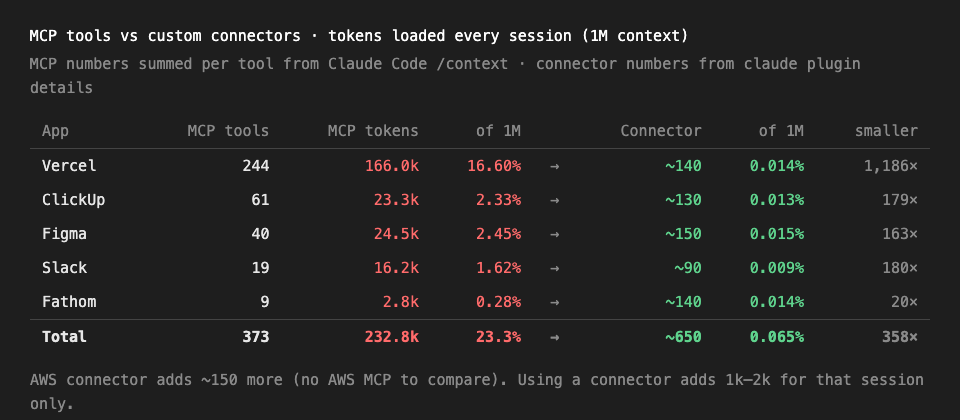
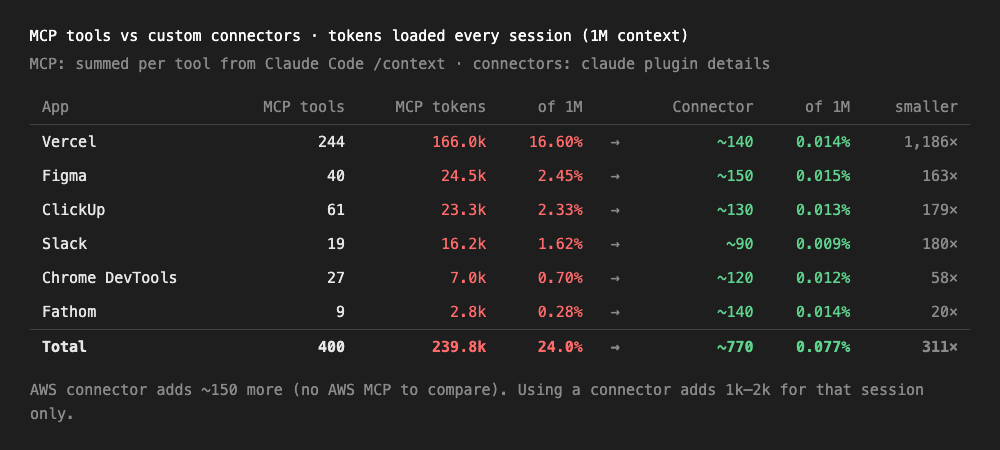
README + screenshots: add Chrome DevTools (7 connectors, 24.0% to 0.077%)

diff --git a/README.md b/README.md
@@ -1,7 +1,7 @@
 # Custom connectors for Claude Code
 
-Six Claude Code skills that replace the **Slack, Fathom, ClickUp, Vercel and AWS** MCPs, and the
-reading side of the **Figma** MCP. Claude calls each app's API directly with `curl` (or the `aws`
+Seven Claude Code skills that replace the **Slack, Fathom, ClickUp, Vercel, AWS and Chrome DevTools**
+MCPs, and the reading side of the **Figma** MCP. Claude calls each app's API directly with `curl` (or the `aws`
 CLI), using your own login saved in your Mac's Keychain.
 
 ## Install (2 commands, inside Claude Code)
@@ -16,7 +16,7 @@ instructions Claude reads when you ask for that app. The files live in
 `~/.claude/plugins/` on your Mac, not in any of your project repos.
 
 **Then turn off the MCPs these replace**, otherwise they keep loading their tools every session.
-Type `/mcp`, pick each of Slack, Fathom, ClickUp, Vercel and AWS, and disable it. Connectors added
+Type `/mcp`, pick each of Slack, Fathom, ClickUp, Vercel, AWS and chrome-devtools, and disable it. Connectors added
 through claude.ai are under claude.ai, Settings, Connectors. **Keep the Figma MCP** if you edit
 designs or use design-to-code; the Figma connector only reads.
 
@@ -28,7 +28,7 @@ If you keep any of these MCPs switched on, Claude might occasionally use an MCP 
 connector. To rule that out, add this line to your global `~/.claude/CLAUDE.md`:
 
 ```
-For Slack, Fathom, ClickUp, Vercel and AWS, use the custom-connectors skills instead of the MCPs.
+For Slack, Fathom, ClickUp, Vercel, AWS and Chrome DevTools, use the custom-connectors skills instead of the MCPs.
 For Figma, use figma-connector for reading, and the Figma MCP only for editing or design-to-code.
 ```
 
@@ -43,6 +43,7 @@ You don't need this if you've disabled the MCPs with `/mcp`.
 | **clickup-connector** | Create, update, search and delete tasks, comments, tags, checklists, attachments, custom fields, subtasks and time entries |
 | **vercel-connector** | Deploy, redeploy, check status, read build and live runtime logs, manage env vars, promote or roll back, list domains. No Vercel CLI needed |
 | **aws-connector** | SSO login, SSM tunnels to private databases, Run Command, Parameter Store, logs and Logs Insights, ECS, RDS, Secrets Manager, S3, CloudFront, Lambda, costs, and anything else the aws CLI can do |
+| **chrome-devtools-connector** | Drive Chrome: open pages, click, fill forms, type, upload files, screenshots, snapshots, console and network logs, run JS, emulate devices, Lighthouse. Same official chrome-devtools-mcp under the hood, started on first use; no token |
 | **figma-connector** | Read pages, frames and node details, render frames to PNG/SVG, version history, read and post comments. **Read-only** |
 
 ## Why this beats the MCPs
@@ -51,26 +52,27 @@ You don't need this if you've disabled the MCPs with `/mcp`.
 loads one line until you ask for that app.
 
 <table>
-<tr><th>Before: 5 MCPs, ~232.8k tokens (23.3%)</th><th>After: 6 connectors, ~800 tokens (0.08%)</th></tr>
+<tr><th>Before: 6 MCPs, ~239.8k tokens (24.0%)</th><th>After: 7 connectors, ~915 tokens (0.09%)</th></tr>
 <tr><td><img src="docs/before-mcps.png" alt="Before: MCP tool tokens per server in /context"></td>
 <td><img src="docs/after-connectors.png" alt="After: connector skill tokens in /context"></td></tr>
 </table>
 
-![MCP tools vs custom connectors: 232.8k tokens (23.3%) down to ~650 (0.065%)](docs/mcp-vs-connectors.png)
+![MCP tools vs custom connectors: 239.8k tokens (24.0%) down to ~770 (0.077%)](docs/mcp-vs-connectors.png)
 
 | App | MCP tools | **Before**: MCP tokens | of 1M | **After**: connector tokens | of 1M |
 |---|---|---|---|---|---|
 | Vercel | 244 | 166.0k | **16.6%** | ~140 | **0.014%** |
-| ClickUp | 61 | 23.3k | **2.3%** | ~130 | **0.013%** |
 | Figma | 40 | 24.5k | **2.5%** | ~150 | **0.015%** |
+| ClickUp | 61 | 23.3k | **2.3%** | ~130 | **0.013%** |
 | Slack | 19 | 16.2k | **1.6%** | ~90 | **0.009%** |
+| Chrome DevTools | 27 | 7.0k | **0.7%** | ~120 | **0.012%** |
 | Fathom | 9 | 2.8k | **0.3%** | ~140 | **0.014%** |
-| **Total** | **373** | **232.8k** | **23.3%** | **~650** | **0.065%** |
+| **Total** | **400** | **239.8k** | **24.0%** | **~770** | **0.077%** |
 
-**Before 23.3% → after 0.065% of a 1M context, about 358× smaller.** All numbers are measured:
+**Before 24.0% → after 0.077% of a 1M context, about 311× smaller.** All numbers are measured:
 "before" is each MCP's tools added up from Claude Code's `/context`, "after" is from
-`claude plugin details`. The AWS connector adds ~150 more (there's no AWS MCP to compare), and using
-a connector adds 1k–2k for that session only.
+`claude plugin details`. The AWS connector adds ~150 more (there's no AWS MCP to compare), for ~915
+total, and using a connector adds 1k–2k for that session only.
 
 Run `/context` before and after to see your own numbers.
 
@@ -89,6 +91,7 @@ Just ask Claude to do something on that app. The first time, it asks for one thi
 | ClickUp | Personal token from https://app.clickup.com/settings/apps |
 | Vercel | Token from https://vercel.com/account/settings/tokens |
 | Figma | Personal access token from Figma, Settings, Security |
+| Chrome DevTools | Nothing. Needs Node.js; the first browser request starts it and opens its own Chrome window |
 | AWS | Nothing if you already use the `aws` CLI with SSO; otherwise your SSO start URL |
 
 Tokens go into your Keychain and never leave your Mac. This repo contains no credentials.
@@ -99,7 +102,7 @@ Tokens go into your Keychain and never leave your Mac. This repo contains no cre
 curl -fsSL https://raw.githubusercontent.com/prathambhatia/custom-connectors/main/install.sh | bash
 ```
 
-Copies the six skills into `~/.claude/skills/`. Read the script first if you prefer. Use one way or
+Copies the seven skills into `~/.claude/skills/`. Read the script first if you prefer. Use one way or
 the other, not both, or every skill shows up twice.
 
 ## Limits
@@ -109,4 +112,6 @@ the other, not both, or every skill shows up twice.
 - **Vercel runtime logs are live only.** Old logs are in the Vercel dashboard.
 - **Figma is read-only.** No editing or design-to-code.
 - **AWS writes to production always ask twice** before running.
+- **Chrome DevTools opens its own Chrome window** (separate profile), like the normal MCP. To drive your
+  everyday Chrome, see the skill's `--autoConnect` note.
 - Needs `curl`, `jq` and `python3` (`brew install jq` if `jq` is missing), plus the `aws` CLI for AWS.
